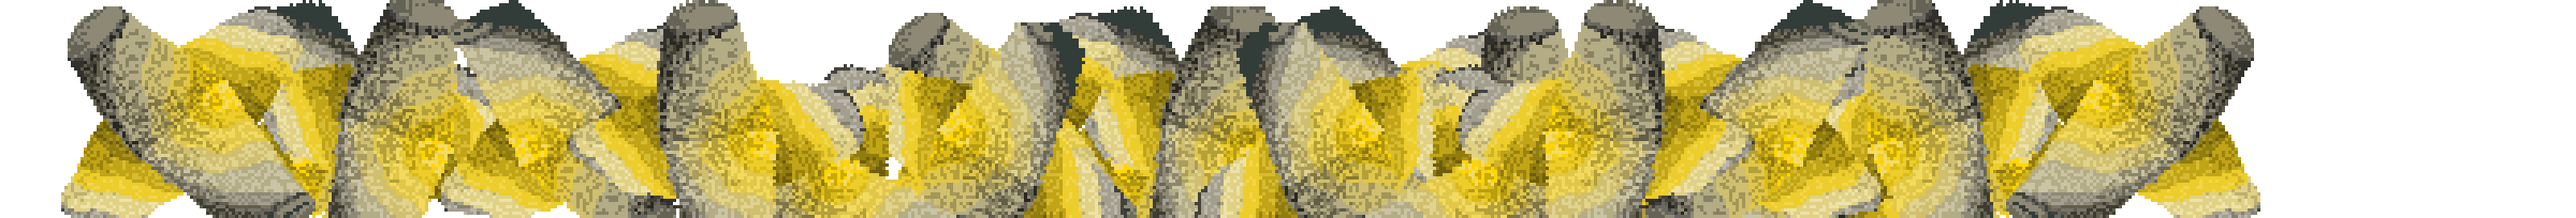
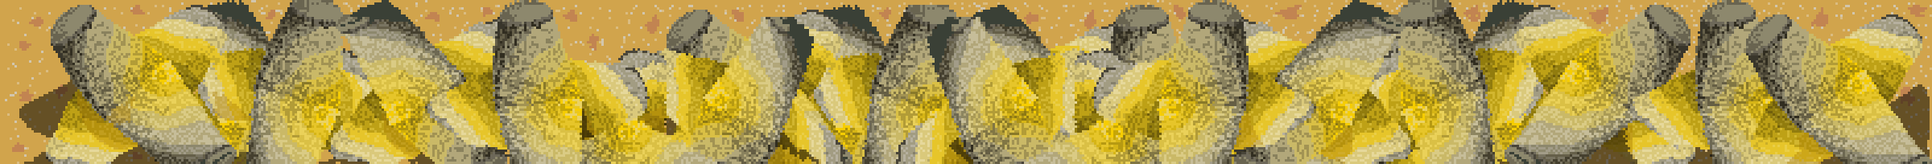
Obsticles added

diff --git a/FlowObstacle.c b/FlowObstacle.c
@@ -321,7 +321,7 @@ int CompareByYPos(const void* a, const void* b) {
 
 void SetObstacleByRandom(int Index)
 {
-	unsigned int RandomNum = CP_Random_GetInt();
+	unsigned int RandomNum =  CP_Random_GetInt();
 	Obstacles[Index].bIsValid = true;
 	switch (RandomNum % OBSTACLE_NUM)
 	{
@@ -347,11 +347,11 @@ void SetObstacleByRandom(int Index)
 		Obstacles[Index].Score = BallData.Score;
 		break;
 	case 3:
-		Obstacles[Index].ObstacleImage = DolpinData.ObstacleImage;
-		Obstacles[Index].ObstacleImageSize = DolpinData.ObstacleImageSize;
-		Obstacles[Index].ObstacleCollisionSize = DolpinData.ObstacleCollisionSize;
-		Obstacles[Index].ObstacleCollisionStartOffset = DolpinData.ObstacleCollisionStartOffset;
-		Obstacles[Index].Score = DolpinData.Score;
+		Obstacles[Index].ObstacleImage = DolphinData.ObstacleImage;
+		Obstacles[Index].ObstacleImageSize = DolphinData.ObstacleImageSize;
+		Obstacles[Index].ObstacleCollisionSize = DolphinData.ObstacleCollisionSize;
+		Obstacles[Index].ObstacleCollisionStartOffset = DolphinData.ObstacleCollisionStartOffset;
+		Obstacles[Index].Score = DolphinData.Score;
 		break;
 	case 4:
 		Obstacles[Index].ObstacleImage = CameraData.ObstacleImage;
@@ -394,6 +394,27 @@ void SetObstacleByRandom(int Index)
 		Obstacles[Index].ObstacleCollisionSize = JellyfishData.ObstacleCollisionSize;
 		Obstacles[Index].ObstacleCollisionStartOffset = JellyfishData.ObstacleCollisionStartOffset;
 		Obstacles[Index].Score = JellyfishData.Score;
+		break;
+	case 10:
+		Obstacles[Index].ObstacleImage = SharkData.ObstacleImage;
+		Obstacles[Index].ObstacleImageSize = SharkData.ObstacleImageSize;
+		Obstacles[Index].ObstacleCollisionSize = SharkData.ObstacleCollisionSize;
+		Obstacles[Index].ObstacleCollisionStartOffset = SharkData.ObstacleCollisionStartOffset;
+		Obstacles[Index].Score = SharkData.Score;
+		break;
+	case 11:
+		Obstacles[Index].ObstacleImage = ReefData.ObstacleImage;
+		Obstacles[Index].ObstacleImageSize = ReefData.ObstacleImageSize;
+		Obstacles[Index].ObstacleCollisionSize = ReefData.ObstacleCollisionSize;
+		Obstacles[Index].ObstacleCollisionStartOffset = ReefData.ObstacleCollisionStartOffset;
+		Obstacles[Index].Score = ReefData.Score;
+		break;
+	case 12:
+		Obstacles[Index].ObstacleImage = DrumData.ObstacleImage;
+		Obstacles[Index].ObstacleImageSize = DrumData.ObstacleImageSize;
+		Obstacles[Index].ObstacleCollisionSize = DrumData.ObstacleCollisionSize;
+		Obstacles[Index].ObstacleCollisionStartOffset = DrumData.ObstacleCollisionStartOffset;
+		Obstacles[Index].Score = DrumData.Score;
 		break;
 	default:
 		break;

diff --git a/AssetLib.c b/AssetLib.c
@@ -15,14 +15,16 @@ FFarBackGroundImageAnimationData SeaGullAnimationData[MAX_SEAGULL_NUM];
 FObstacleData TurtleData;
 FObstacleData BoxData;
 FObstacleData BallData;
-FObstacleData DolpinData;
+FObstacleData DolphinData;
 FObstacleData CameraData;
 FObstacleData IcecreamData;
 FObstacleData StarFishData;
 FObstacleData TubeData;
 FObstacleData CrabData;
 FObstacleData JellyfishData;
-
+FObstacleData SharkData;
+FObstacleData ReefData;
+FObstacleData DrumData;
 
 FBatteryData BatteryData;
 
@@ -90,11 +92,11 @@ void InitAsset()
 	BallData.ObstacleCollisionSize = CP_Vector_Set(50.f, 30.f);
 	BallData.Score = 50.f;
 
-	DolpinData.ObstacleImage = CP_Image_Load("./Assets/Dolpin.png");
-	DolpinData.ObstacleImageSize = CP_Vector_Set(80.f, 50.f);
-	DolpinData.ObstacleCollisionStartOffset = CP_Vector_Set(10.f, 10.f);
-	DolpinData.ObstacleCollisionSize = CP_Vector_Set(50.f, 30.f);
-	DolpinData.Score = 50.f;
+	DolphinData.ObstacleImage = CP_Image_Load("./Assets/Dolphin.png");
+	DolphinData.ObstacleImageSize = CP_Vector_Set(80.f, 50.f);
+	DolphinData.ObstacleCollisionStartOffset = CP_Vector_Set(10.f, 10.f);
+	DolphinData.ObstacleCollisionSize = CP_Vector_Set(50.f, 30.f);
+	DolphinData.Score = 50.f;
 
 	CameraData.ObstacleImage = CP_Image_Load("./Assets/Camera.png");
 	CameraData.ObstacleImageSize = CP_Vector_Set(80.f, 50.f);
@@ -131,6 +133,25 @@ void InitAsset()
 	JellyfishData.ObstacleCollisionStartOffset = CP_Vector_Set(10.f, 10.f);
 	JellyfishData.ObstacleCollisionSize = CP_Vector_Set(50.f, 30.f);
 	JellyfishData.Score = 50.f;
+
+	SharkData.ObstacleImage = CP_Image_Load("./Assets/Shark.png");
+	SharkData.ObstacleImageSize = CP_Vector_Set(100.f, 60.f);
+	SharkData.ObstacleCollisionStartOffset = CP_Vector_Set(10.f, 10.f);
+	SharkData.ObstacleCollisionSize = CP_Vector_Set(50.f, 30.f);
+	SharkData.Score = 50.f;
+
+	ReefData.ObstacleImage = CP_Image_Load("./Assets/Reef.png");
+	ReefData.ObstacleImageSize = CP_Vector_Set(80.f, 50.f);
+	ReefData.ObstacleCollisionStartOffset = CP_Vector_Set(10.f, 10.f);
+	ReefData.ObstacleCollisionSize = CP_Vector_Set(50.f, 30.f);
+	ReefData.Score = 50.f;
+
+	DrumData.ObstacleImage = CP_Image_Load("./Assets/Drum.png");
+	DrumData.ObstacleImageSize = CP_Vector_Set(80.f, 50.f);
+	DrumData.ObstacleCollisionStartOffset = CP_Vector_Set(10.f, 10.f);
+	DrumData.ObstacleCollisionSize = CP_Vector_Set(50.f, 30.f);
+	DrumData.Score = 50.f;
+
 
 	BatteryData.BatteryImage = CP_Image_Load("./Assets/Battery.png");
 	BatteryData.BatteryImageSize = CP_Vector_Set(30.f, 30.f);

diff --git a/drone.c b/drone.c
@@ -106,6 +106,10 @@ void drone()
     CP_Image_DrawSubImage(DroneImage, dronePosx - DroneWidth / 2.f, dronePosy - DroneHeight / 2.f, DroneWidth, DroneHeight, 100.f* AnimationIndex,0.f,100.f * (AnimationIndex + 1),100.f, 255);
 	//CP_Graphics_DrawLine(GameData.LaneMin.x + CharacterData.CharacterPos.x + CharacterData.HandOffset.x, GameData.LaneMin.y + CharacterData.CharacterPos.y + CharacterData.HandOffset.y, dronePosx, dronePosy);
     float CharacterDrawRatio = 0.8f + 0.2f * (CharacterData.CharacterPos.y / (GameData.LaneMax.y - GameData.LaneMin.y));
+    if (CharacterData.CharacterState == HEIGHESTWAVE)
+    {
+        CharacterDrawRatio = 0.5f;
+    }
     float HandOffsetDelta = (CharacterData.HandOffset.x - CharacterData.HandOffset.x * 0.8f)/2.f;
     DrawLine(GameData.LaneMin.x + CharacterData.CharacterPos.x + CharacterData.HandOffset.x - HandOffsetDelta * (1 - CharacterData.CharacterPos.y / (GameData.LaneMax.y - GameData.LaneMin.y)), GameData.LaneMin.y + CharacterData.CharacterPos.y + CharacterData.HandOffset.y * CharacterDrawRatio, dronePosx, dronePosy);
 }

diff --git a/GlobalVariables.c b/GlobalVariables.c
@@ -46,7 +46,7 @@ void InitCharacterData()
 	CharacterData.AnimationFrame = 0;
 	CharacterData.CharaterDrawSize = CP_Vector_Set(200.f,200.f);
 	CharacterData.ComboIndex = 0;
-	CharacterData.HandOffset = CP_Vector_Set(200.f,-120.f);
+	CharacterData.HandOffset = CP_Vector_Set(200.f,-100.f);
 	SetCharacterState(STANDING);
 	for (int i = 0; i < COMBO_COMMAND_LENGTH;i++)
 	{
@@ -84,7 +84,7 @@ void InitItemData()
 	ReduceSpeedItem.ItemImageSize = CP_Vector_Set(50.f,50.f);
 	ReduceSpeedItem.ItemPos = CP_Vector_Set(CP_Random_RangeFloat(GameData.LaneMax.x / 2.f, GameData.LaneMax.x), GameData.LaneMax.y - GameData.LaneMin.y);
 	MedalItem.bIsValid = false;
-	MedalItem.ItemImage = CP_Image_Load("./Assets/Medal.png");
+	MedalItem.ItemImage = CP_Image_Load("./Assets/Trophy.png");
 	MedalItem.ItemImageSize = CP_Vector_Set(50.f, 50.f);
 	MedalItem.Score = 100.f;
 }

diff --git a/AssetLib.h b/AssetLib.h
@@ -4,7 +4,7 @@
 #include "GameStruct.h"
 
 
-#define OBSTACLE_NUM 10
+#define OBSTACLE_NUM 13
 #define MAX_SEAGULL_NUM 5
 extern FSeaAnimationData SeaAnimationData;
 
@@ -18,13 +18,16 @@ extern FFarBackGroundImageAnimationData SeaGullAnimationData[];
 extern FObstacleData TurtleData;
 extern FObstacleData BoxData;
 extern FObstacleData BallData;
-extern FObstacleData DolpinData;
+extern FObstacleData DolphinData;
 extern FObstacleData CameraData;
 extern FObstacleData IcecreamData;
 extern FObstacleData StarFishData;
 extern FObstacleData TubeData;
 extern FObstacleData CrabData;
 extern FObstacleData JellyfishData;
+extern FObstacleData SharkData;
+extern FObstacleData ReefData;
+extern FObstacleData DrumData;
 
 extern FBatteryData BatteryData;
 

diff --git a/GameStruct.h b/GameStruct.h
@@ -25,13 +25,15 @@ typedef enum EObsticleType {
 	TURTLE = 0,
 	BOX = 1,
 	Ball = 2,
-	Dolpin = 3,
+	Dolphin = 3,
 	Camera = 4,
 	Icecream = 5,
 	Starfish = 6,
 	Tube = 7,
 	Crab = 8,
 	Jellyfish = 9,
+	Shark = 10,
+	Reef = 11,
 }EObsticleType;
 
 
